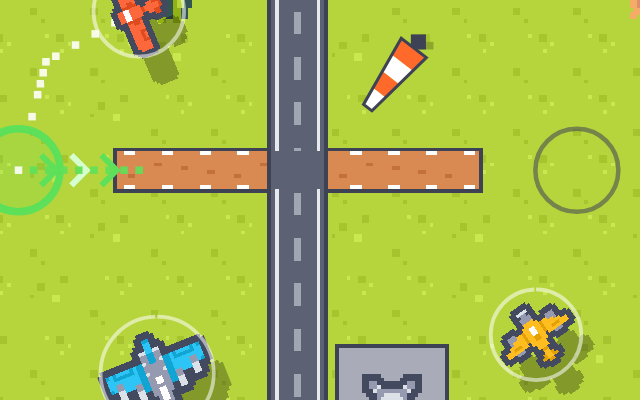
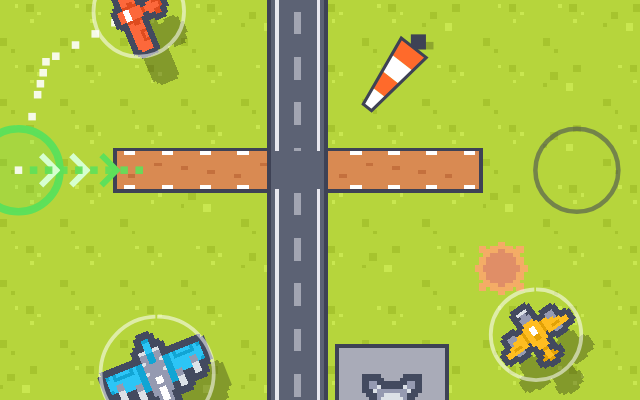
fix(windsock): grass to the screen's edge, a still sky behind the collision card, larger arrival arrows

diff --git a/windsock/game.js b/windsock/game.js
@@ -196,7 +196,7 @@ let offX = 0; // field origin, CSS px
 let offY = 0;
 let hudBottom = 68;
 let ground = null; // pre-drawn grass and runways
-const GEXT = 160; // grass drawn this far beyond the field, art px
+const GEXT = 360; // grass drawn this far beyond the field, art px
 
 function resize() {
   cssW = window.innerWidth;
@@ -430,6 +430,10 @@ function extendLine(plane, head) {
 // ---------- Simulation ----------
 
 function update(dt) {
+  if (mode === 'crash') {
+    updateAmbient(dt); // the sky holds still behind the collision card
+    return;
+  }
   if (mode === 'play') updateShift(dt);
   updatePlanes(dt, mode === 'play');
   updateAmbient(dt);
@@ -522,7 +526,7 @@ function doSwing() {
 function updatePlanes(dt, live) {
   const blow = blowVec(st ? st.wind : 0);
   for (const p of st.planes) {
-    if (p.gone) continue;
+    if (p.gone || p.crashed) continue;
     const T = TYPES[p.type];
     if (p.state === 'roll') {
       updateRoll(p, dt);
@@ -1085,7 +1089,7 @@ function makeCloud(rng) {
 function seedClouds() {
   const rng = mulberry32(99);
   clouds.length = 0;
-  for (let i = 0; i < 6; i++) {
+  for (let i = 0; i < 16; i++) {
     const shape = makeCloud(rng);
     clouds.push({ ...shape, x: -GEXT + rng() * (FW + GEXT * 2), y: -GEXT + rng() * (FH + GEXT * 2) });
   }
@@ -1312,6 +1316,7 @@ function draw() {
       ctx.save();
       ctx.translate(x, y);
       ctx.rotate(ang);
+      ctx.scale(1.4, 1.4);
       ctx.globalAlpha = pulse;
       ctx.fillStyle = '#ffffff';
       ctx.strokeStyle = '#3e4255';
